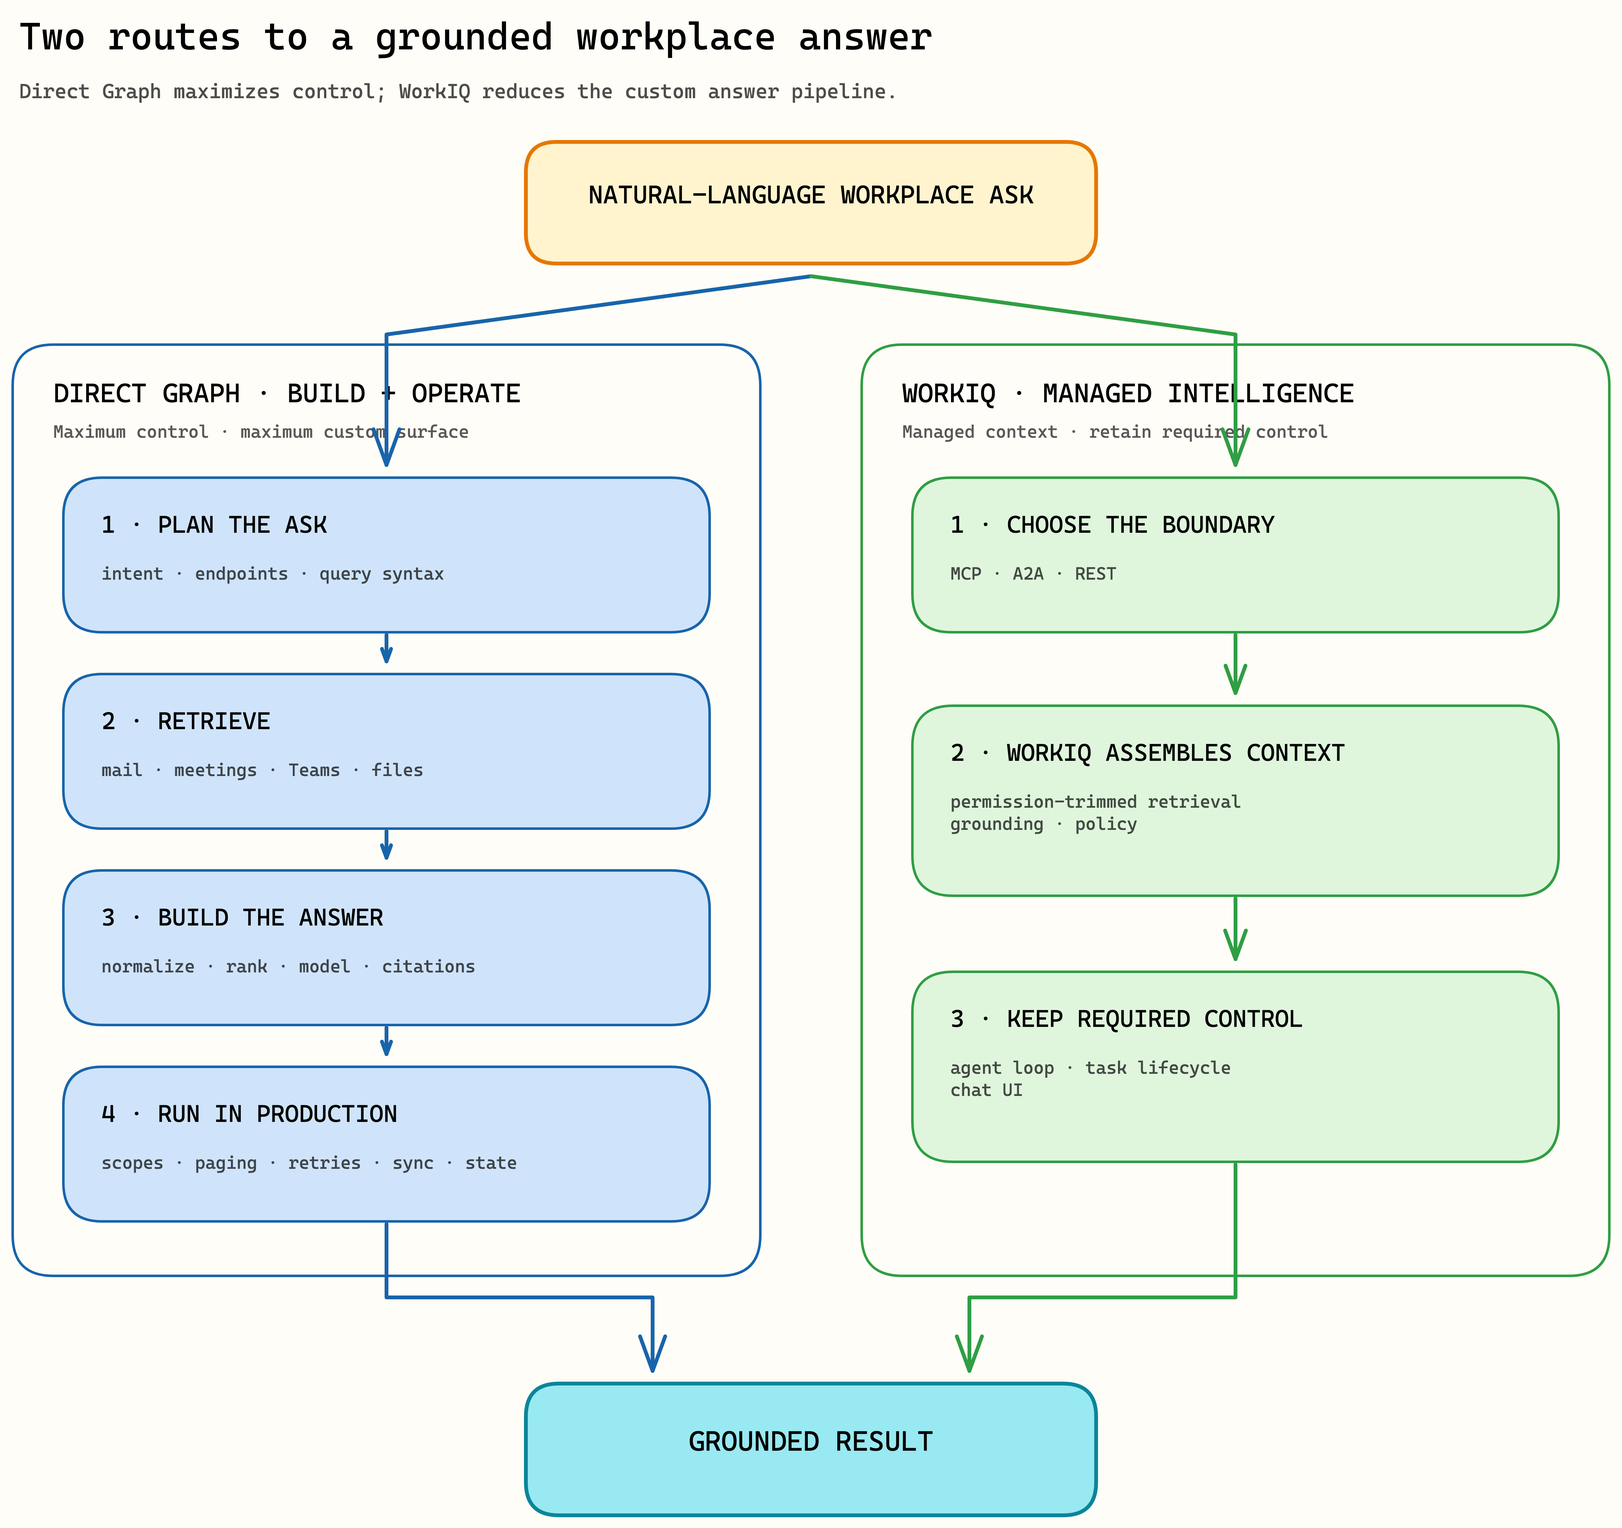
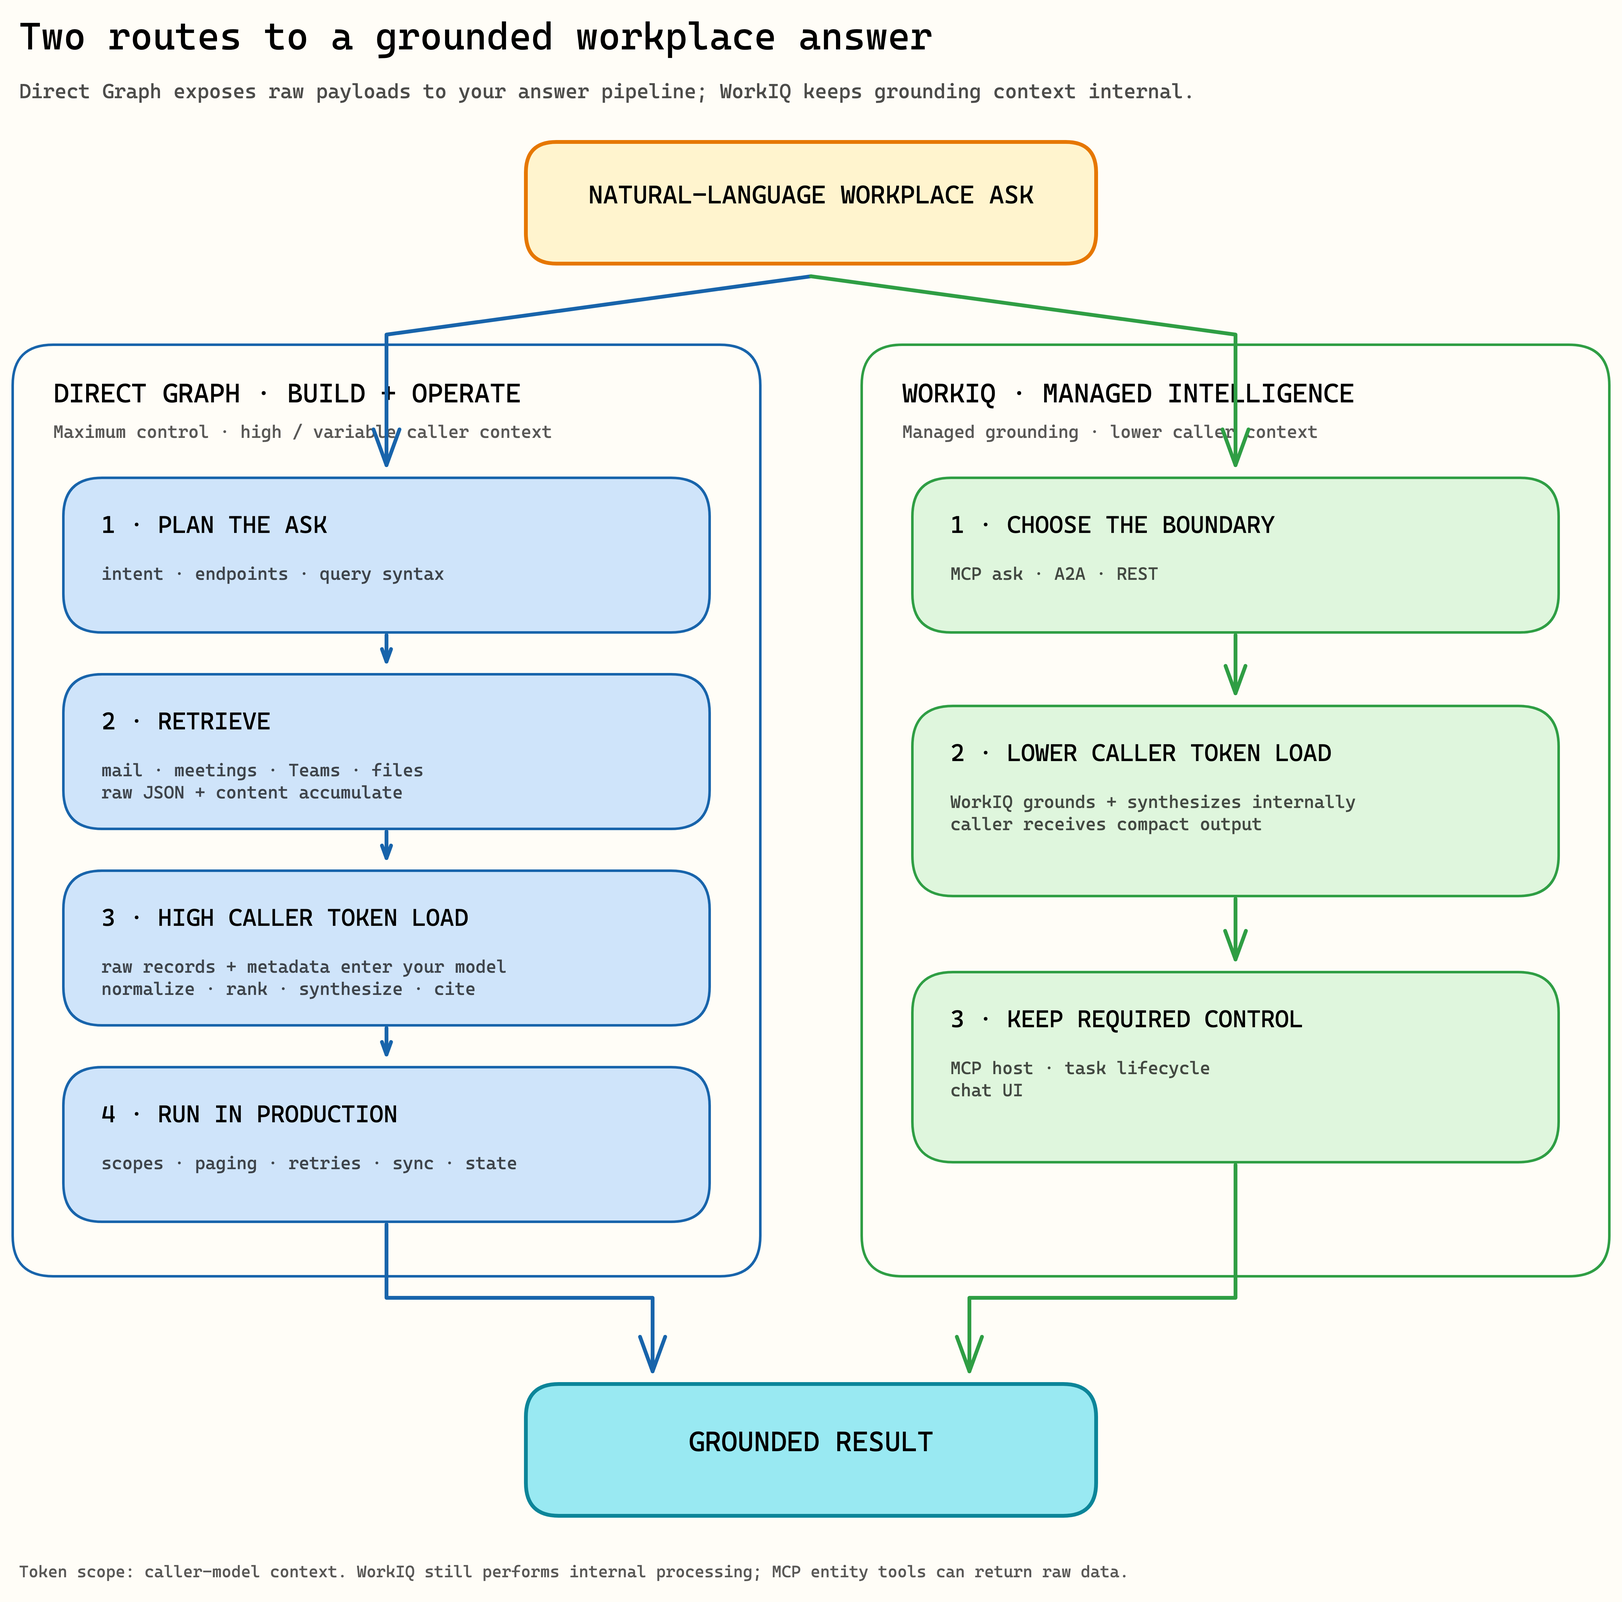
docs: clarify protocol and token boundaries

diff --git a/docs/graph-vs-workiq.md b/docs/graph-vs-workiq.md
@@ -8,14 +8,28 @@ layer through MCP, A2A, or REST.
 ## Executive architecture view
 
 <figure class="workiq-diagram workiq-diagram--raster">
-  <img src="../assets/images/graph-vs-workiq.png" width="2560" height="2412" alt="A natural-language workplace ask branches into two paths. Direct Graph requires planning, retrieval, answer construction, and production operation. WorkIQ requires choosing MCP, A2A, or REST, then assembles context while the application keeps required control. Both paths produce a grounded result.">
+  <img src="../assets/images/graph-vs-workiq.png" width="2560" height="2528" alt="A natural-language workplace ask branches into two paths. Direct Graph retrieves raw cross-workload payloads and serializes selected records and metadata into a high and variable caller-model token load. WorkIQ ask, A2A, or REST keeps retrieval and ranking context inside WorkIQ and returns synthesized output with a lower caller-model token load. Both paths produce a grounded result.">
 </figure>
 
 **Executive takeaway:** WorkIQ reduces the custom build and operating surface for grounded workplace
-answers. Direct Graph maximizes control, but the application funds and owns the answer pipeline.
+answers. Direct Graph maximizes control, but the application funds and owns the answer pipeline and
+typically sends substantially more context into its own model.
 
-**Architect takeaway:** Both enforce user permissions. The boundary is who owns intent decomposition,
-cross-workload retrieval, synthesis, and lifecycle—not who can bypass Microsoft 365 governance.
+**Architect takeaway:** Both enforce user permissions. Direct Graph leaves intent decomposition,
+cross-workload retrieval, and synthesis to the application. WorkIQ can own those steps through MCP
+`ask`, A2A, or REST; MCP entity tools retain more caller control.
+
+!!! info "Caller-model token boundary"
+  A Graph response is data, not automatically an LLM token charge. The token increase happens when
+  the application serializes selected messages, meetings, files, content, and metadata into its
+  model context for synthesis. Cross-workload fan-out often makes that input substantially larger
+  and more variable than WorkIQ `ask`, A2A, or REST, where retrieval and ranking context stays
+  inside WorkIQ and synthesized output crosses back to the caller.
+
+  This is a directional architecture comparison, not a published multiplier or a claim about
+  WorkIQ's internal processing. Careful `$select`, filtering, ranking, truncation, and caching can
+  reduce Graph input tokens. MCP entity tools return raw data and have the same Graph-like token
+  profile when their results are inserted into an outer model context.
 
 ## Where direct Graph adds work
 
@@ -23,11 +37,12 @@ cross-workload retrieval, synthesis, and lifecycle—not who can bypass Microsof
 
 | Concern | Direct Microsoft Graph | WorkIQ |
 | --- | --- | --- |
-| Query planning | Select endpoints, entity types, OData or KQL, fields, and date windows. | REST and A2A accept the ask; an MCP agent selects generic tools and paths. |
+| Query planning | Select endpoints, entity types, OData or KQL, fields, and date windows. | MCP `ask`, A2A, and REST accept natural-language asks; MCP entity tools expose paths for direct control. |
 | Cross-workload retrieval | Use workload endpoints or supported Search API entity combinations, then normalize, deduplicate, and rank results. | WorkIQ assembles permission-trimmed work context across supported sources. |
+| Caller-model context tokens | Raw records, content, and metadata selected for synthesis become input tokens; cross-workload fan-out makes the load high and variable. | MCP `ask`, A2A, and REST return synthesized output after internal grounding, usually producing a much smaller caller context. MCP entity tools are the exception. |
 | Permissions | Request the least-privileged scope for every workload and operation. | Use delegated WorkIQ permissions plus tenant and path policy. |
-| Reliability | Implement paging, `429`/`503` backoff, partial batch retries, and workload-specific errors. | REST and A2A avoid retrieval fan-out; with MCP, the caller still owns the tool loop but not workload-specific clients. |
-| Synthesis | Choose a model, constrain context, produce citations, and evaluate answer quality. | REST and A2A return synthesized output; MCP leaves final synthesis to the outer model. |
+| Reliability | Implement paging, `429`/`503` backoff, partial batch retries, and workload-specific errors. | MCP `ask`, A2A, and REST avoid caller-managed retrieval fan-out; MCP entity-tool callers own their operation loop. |
+| Synthesis | Choose a model, constrain context, produce citations, and evaluate answer quality. | MCP `ask`, A2A, and REST return synthesized WorkIQ output; MCP entity tools leave composition to the caller. |
 | Persistent data | If local state is required, operate change notifications, delta tokens, retention, and deletion. | Typical grounded asks use Microsoft 365's existing index without copying workplace data. |
 
 </div>
@@ -44,15 +59,15 @@ The labels compare production integration surface, not elapsed developer time.
 
 | Ask | Direct Graph implementation | WorkIQ route | Relative effort |
 | --- | --- | --- | --- |
-| "What meetings do I have today?" | Query `calendarView`, handle time zones, recurrence, fields, and paging. | One REST turn or A2A message with required location metadata. | **Low / low.** Prefer Graph for structured events; WorkIQ for a prose answer. |
-| "Brief me for my Contoso call." | Search mail, Teams, files, and events with separate scopes and requests; fetch details; merge, rank, and summarize. | Create a REST conversation and submit the ask. | **High / low-medium.** |
+| "What meetings do I have today?" | Query `calendarView`, handle time zones, recurrence, fields, and paging. | Call MCP `ask`, submit one REST turn, or send an A2A message with required location metadata. | **Low / low.** Prefer Graph for structured events; WorkIQ for a prose answer. |
+| "Brief me for my Contoso call." | Search mail, Teams, files, and events with separate scopes and requests; fetch details; merge, rank, and summarize. | Submit the ask through MCP `ask`, REST chat, or A2A according to the caller contract. | **High / low-medium.** |
 | "Summarize project risks and correlate them with incident telemetry." | Build Microsoft 365 retrieval, an external telemetry integration, and a model/tool loop. | Give an outer agent WorkIQ MCP and telemetry tools. | **High / medium.** |
 | "Investigate the regression; let me cancel and reconnect later." | Add retrieval and synthesis plus a job queue, state store, status API, cancellation, and artifact persistence. | Send an A2A task; persist `task.id` and `contextId`; get, subscribe, or cancel while retained. | **Very high / medium.** |
 | "Create this exact approved calendar event." | Call the calendar endpoint with a narrow schema and explicit authorization. | Use an approval-gated MCP `create_entity` call. | **Low / medium.** Graph is usually the cleaner contract. |
 
 </div>
 
-The second row is the important dividing line. The
+The second row is the important Graph-versus-WorkIQ dividing line, not a protocol boundary. The
 [Microsoft Search API](https://learn.microsoft.com/graph/api/resources/search-api-overview?view=graph-rest-1.0)
 provides permission-trimmed hits, but mail, events, Teams messages, and files have different scopes,
 result shapes, paging limits, and supported combinations. Search does not perform the final
@@ -66,12 +81,15 @@ cross-source synthesis.
   token expiry and resynchronization behavior.
 - WorkIQ reduces that retrieval and synthesis surface, but it is delegated-only, usage billed, and
   AI-generated output still requires verification. REST has no writes or long-running task contract.
+- Compare caller-model input tokens separately from WorkIQ service usage. Reducing outer context does
+  not mean WorkIQ performs no internal retrieval, reasoning, or billable processing.
 - Both approaches enforce the signed-in user's access. WorkIQ does not grant access to content the
   user cannot already reach.
 
 ## Microsoft Learn references
 
 - [Work IQ API overview](https://learn.microsoft.com/microsoft-365/copilot/extensibility/work-iq/api-overview)
+- [Work IQ overview - Context](https://learn.microsoft.com/microsoft-365/copilot/extensibility/work-iq/#context)
 - [Work IQ MCP overview](https://learn.microsoft.com/microsoft-365/copilot/extensibility/work-iq/mcp/overview)
 - [Work IQ A2A overview](https://learn.microsoft.com/microsoft-365/copilot/extensibility/work-iq/a2a/overview)
 - [Work IQ REST overview](https://learn.microsoft.com/microsoft-365/copilot/extensibility/work-iq/rest/overview)

diff --git a/docs/protocols/mcp.md b/docs/protocols/mcp.md
@@ -1,13 +1,15 @@
-# MCP - Own the loop
+# MCP - Invoke WorkIQ as tools
 
-Use MCP when the application must control the model, tool policy, orchestration, and final answer.
+Use MCP when an LLM-based client should invoke WorkIQ as tools. Call `ask` with a natural-language
+question for a synthesized Microsoft 365 Copilot response, or use entity, schema, and action tools
+inside caller-owned orchestration.
 
 <div class="fold-board">
   <div class="fold-track fold-track--header" aria-hidden="true">
     <span></span><span>Intent</span><span>Control</span><span>State</span><span>Output</span><span>Recovery</span>
   </div>
   <div class="fold-track fold-track--mcp">
-    <strong>MCP</strong><span>Operation</span><span>Your app</span><span>Outer graph</span><span>Tool result</span><span>Your app</span>
+    <strong>MCP</strong><span>Ask / operation</span><span>MCP host</span><span>Host + optional WorkIQ chat</span><span>Answer / result</span><span>MCP host</span>
   </div>
 </div>
 
@@ -23,30 +25,35 @@ Treat runtime `tools/list` as authoritative. The tool is the verb and the relati
 path is the object:
 
 ```text
+ask "Brief me for my next customer call"
 fetch /me/messages
 create_entity /me/events
 do_action /me/sendMail
 call_function /search/query
 ```
 
-The outer model consumes each tool result and decides whether to call another tool or answer.
+The MCP host decides whether and when to call a tool, then consumes its result. `ask` is not a raw
+retrieval primitive: it invokes Microsoft 365 Copilot and returns a synthesized `response` plus a
+`conversationId`. The host can render that response directly, incorporate it into an outer model,
+or continue the WorkIQ conversation.
 
 ## Ownership
 
 The application owns:
 
-- model and prompt selection;
-- the subset of tools exposed to the model;
-- retries, approvals, checkpoints, and final synthesis;
+- which tools are available and when they are invoked;
+- the outer model and prompt, when an outer model is used;
+- retries, approvals, checkpoints, and result handling;
 - orchestration across WorkIQ and other providers.
 
-WorkIQ owns operation validation, Microsoft 365 access, and tenant policy enforcement.
+WorkIQ owns operation validation, Microsoft 365 access, and tenant policy enforcement. For `ask`,
+WorkIQ also owns Microsoft 365 grounding and synthesis inside that tool call.
 
 ## State
 
-MCP does not define an agent conversation. The outer agent owns its transcript and checkpoints.
-WorkIQ `ask` can separately return a `conversationId`; persist it only when intentional WorkIQ-side
-continuation is required.
+MCP does not define the host's agent conversation. If the host uses an outer agent, that agent owns
+its transcript and checkpoints. WorkIQ `ask` separately returns a `conversationId`; persist it only
+when intentional WorkIQ-side continuation is required.
 
 This repository starts `@microsoft/workiq mcp` over stdio. Its default policy exposes `ask`,
 `call_function`, `fetch`, `get_schema`, `list_agents`, and `search_paths`; `--allow-writes` keeps
@@ -74,9 +81,10 @@ application approval step before exposing them to the model.
 
 ## Choose MCP for
 
+- a natural-language Microsoft 365 question invoked as `ask` by an LLM-based client;
 - raw entities, schema discovery, or caller-controlled writes;
 - an application model that combines WorkIQ with other tools;
-- application-owned checkpoints, retries, approvals, and synthesis;
+- application-owned checkpoints, retries, approvals, or cross-provider synthesis;
 - model-level telemetry or reasoning summaries from the outer model.
 
 [Build the MCP + Deep Agents example](../mcp-deepagents.md)

diff --git a/docs/index.md b/docs/index.md
@@ -15,12 +15,12 @@ they assign orchestration, state, and recovery to different owners.
 
 </section>
 
-<div class="fold-board" role="img" aria-label="MCP keeps orchestration in the application, A2A delegates a task to WorkIQ, and REST delegates one conversational turn to WorkIQ.">
+<div class="fold-board" role="img" aria-label="MCP exposes caller-invoked tools, A2A delegates a task to WorkIQ, and REST exposes a direct conversational turn.">
   <div class="fold-track fold-track--header" aria-hidden="true">
     <span></span><span>Intent</span><span>Control</span><span>State</span><span>Output</span><span>Recovery</span>
   </div>
   <div class="fold-track fold-track--mcp">
-    <strong>MCP</strong><span>Operation</span><span>Your app</span><span>Outer graph</span><span>Tool result</span><span>Your app</span>
+    <strong>MCP</strong><span>Ask / operation</span><span>MCP host</span><span>Host + optional WorkIQ chat</span><span>Answer / result</span><span>MCP host</span>
   </div>
   <div class="fold-track fold-track--a2a">
     <strong>A2A</strong><span>Outcome</span><span>WorkIQ agent</span><span>Task + context</span><span>Artifacts</span><span>Get / subscribe</span>
@@ -35,7 +35,7 @@ they assign orchestration, state, and recovery to different owners.
 <div class="protocol-ledger">
   <a class="protocol-row protocol-row--mcp" href="protocols/mcp/">
     <span class="protocol-code">MCP</span>
-    <span><strong>You own the loop.</strong> Let an application model select granular WorkIQ tools, combine providers, and compose the answer.</span>
+    <span><strong>You own the loop.</strong> Let an LLM-based client call WorkIQ <code>ask</code> for a synthesized answer or compose entity, schema, and action tools.</span>
     <span class="protocol-action">Inspect MCP</span>
   </a>
   <a class="protocol-row protocol-row--a2a" href="protocols/a2a/">
@@ -52,11 +52,15 @@ they assign orchestration, state, and recovery to different owners.
 
 ## Sixty-second decision
 
-| If the requirement starts with... | Start with | Contract you gain |
+Question complexity does not choose the protocol. The same complex Microsoft 365 question can be
+submitted through MCP `ask`, A2A `SendMessage`, or REST chat. Start with the caller and the contract
+the application needs; these are recommendations, not capability boundaries.
+
+| If the architecture starts with... | Start with | Contract you gain |
 | --- | --- | --- |
-| "Read this entity, inspect its schema, or perform an approved action" | **MCP** | Composable tools and caller-owned orchestration |
-| "Research this outcome, track it, and let me cancel it" | **A2A** | Task identity, status, and artifacts |
-| "Answer this Microsoft 365 question in my app" | **REST** | The smallest synthesized chat contract |
+| "My LLM-based client should invoke WorkIQ as a tool" | **MCP** | Synthesized `ask` responses or composable operations inside a caller-owned loop |
+| "My agent should delegate work and manage it as a task" | **A2A** | Task identity, status, artifacts, cancellation, and subscription |
+| "My app or backend needs a direct Copilot conversation API" | **REST** | Multiturn synthesized chat without an MCP host or task lifecycle |
 
 !!! warning "Reasoning boundary"
     None of the three WorkIQ contracts promises private chain-of-thought. The CLI can show the

diff --git a/docs/foundations.md b/docs/foundations.md
@@ -1,15 +1,16 @@
 # Control and state
 
-MCP, A2A, and REST expose different ownership models, not interchangeable wrappers around one
-WorkIQ API.
+MCP, A2A, and REST expose different integration contracts with overlapping ability to answer
+natural-language questions. Query complexity does not distinguish them.
 
 ## Architecture matrix
 
 | Concern | MCP | A2A | REST |
 | --- | --- | --- | --- |
 | Public abstraction | Tool | Task | Conversation turn |
-| Orchestration owner | Caller | WorkIQ agent | WorkIQ |
-| Execution model selected by caller | Yes | No | No |
+| Recommended caller | LLM-based client | Another agent | Application or backend |
+| Natural-language answer | `ask` response | Task artifact | Chat response |
+| Orchestration owner | MCP host; WorkIQ inside `ask` | WorkIQ agent | WorkIQ |
 | Granular entity operations | Yes | No public primitive | No |
 | Caller-controlled writes | Yes, policy gated | Agent-dependent | No |
 | Work identity | Caller-defined | `task.id` | No task object |
@@ -21,10 +22,11 @@ WorkIQ API.
 === "MCP"
 
     <figure class="workiq-diagram workiq-diagram--raster">
-    <img src="../assets/images/mcp-control-plane.png" width="2482" height="1740" alt="The application sends a prompt and approved tools to the caller model. The model returns a tool call. The application calls WorkIQ MCP, receives a tool result, and continues the model loop.">
+    <img src="../assets/images/mcp-control-plane.png" width="2482" height="1740" alt="The MCP host can optionally use an outer model to select a tool, then calls WorkIQ MCP. WorkIQ returns either a synthesized answer from ask or an operation result; continuing an outer model loop is optional.">
     </figure>
 
-    The application owns planning, policy, retries, and final synthesis.
+    The MCP host owns policy, invocation, retries, and result handling. WorkIQ owns Microsoft 365
+    grounding and synthesis inside an `ask` call; an outer model is optional.
 
 === "A2A"
 

diff --git a/docs/protocols/rest.md b/docs/protocols/rest.md
@@ -33,6 +33,11 @@ attributions, adaptive cards, and sensitivity metadata.
 
 Do not assume per-turn controls become conversation defaults.
 
+REST chat and MCP `ask` can both accept complex natural-language questions and return synthesized
+answers. Choose REST when an application or backend wants a direct HTTP conversation contract;
+choose MCP when an LLM-based client should invoke WorkIQ through a tool contract. Complexity is not
+the differentiator.
+
 ## Boundaries
 
 REST Chat does not expose:
@@ -43,8 +48,8 @@ REST Chat does not expose:
 - task identity, cancellation, or task recovery;
 - code interpreter or graphic-art tools.
 
-Use A2A for delegated work with a lifecycle. Use MCP for precise reads, writes, or caller-owned
-orchestration.
+Use A2A for delegated work with a lifecycle. Use MCP for tool-based invocation, including `ask`,
+precise reads, writes, or caller-owned cross-provider orchestration.
 
 ## Authentication
 
@@ -66,7 +71,7 @@ the authorized tenant and user.
 
 ## Choose REST for
 
-- direct application or CLI chat;
+- direct application or backend chat;
 - synthesized Microsoft 365 Copilot answers;
 - minimal orchestration and infrastructure;
 - references, attributions, and sensitivity metadata;
